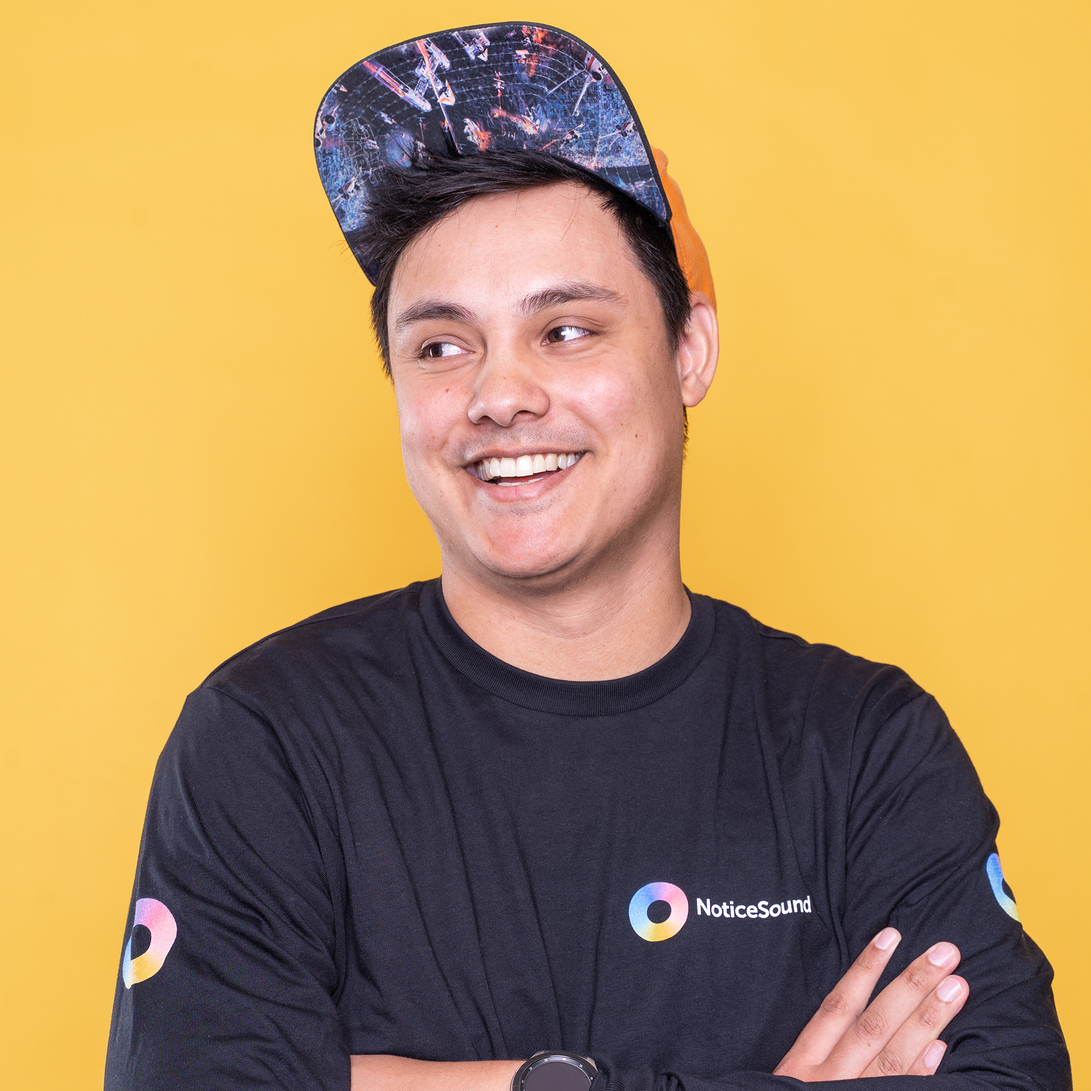
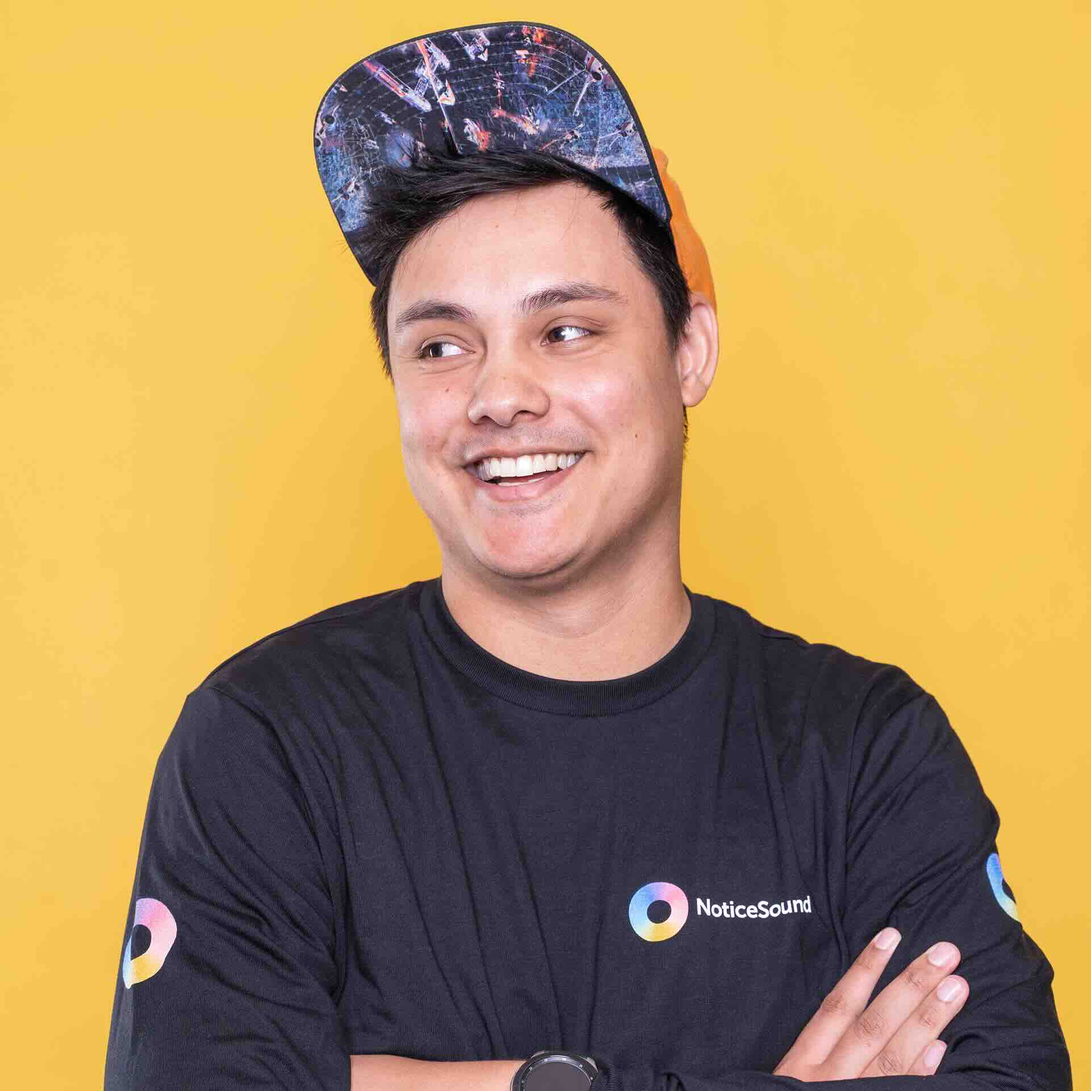
compress large images

diff --git a/src/_includes/partials/homepage/banner-darkmode.css b/src/_includes/partials/homepage/banner-darkmode.css
@@ -1,5 +1,5 @@
 .banner-darkmode__container {
-  background-image: url("/_img/congres/2026/fronteers-darkmode-banner.png");
+  background-image: url("/_img/congres/2026/fronteers-darkmode-banner.jpeg");
   background-size: cover;
   background-position: center;
   background-repeat: no-repeat;
